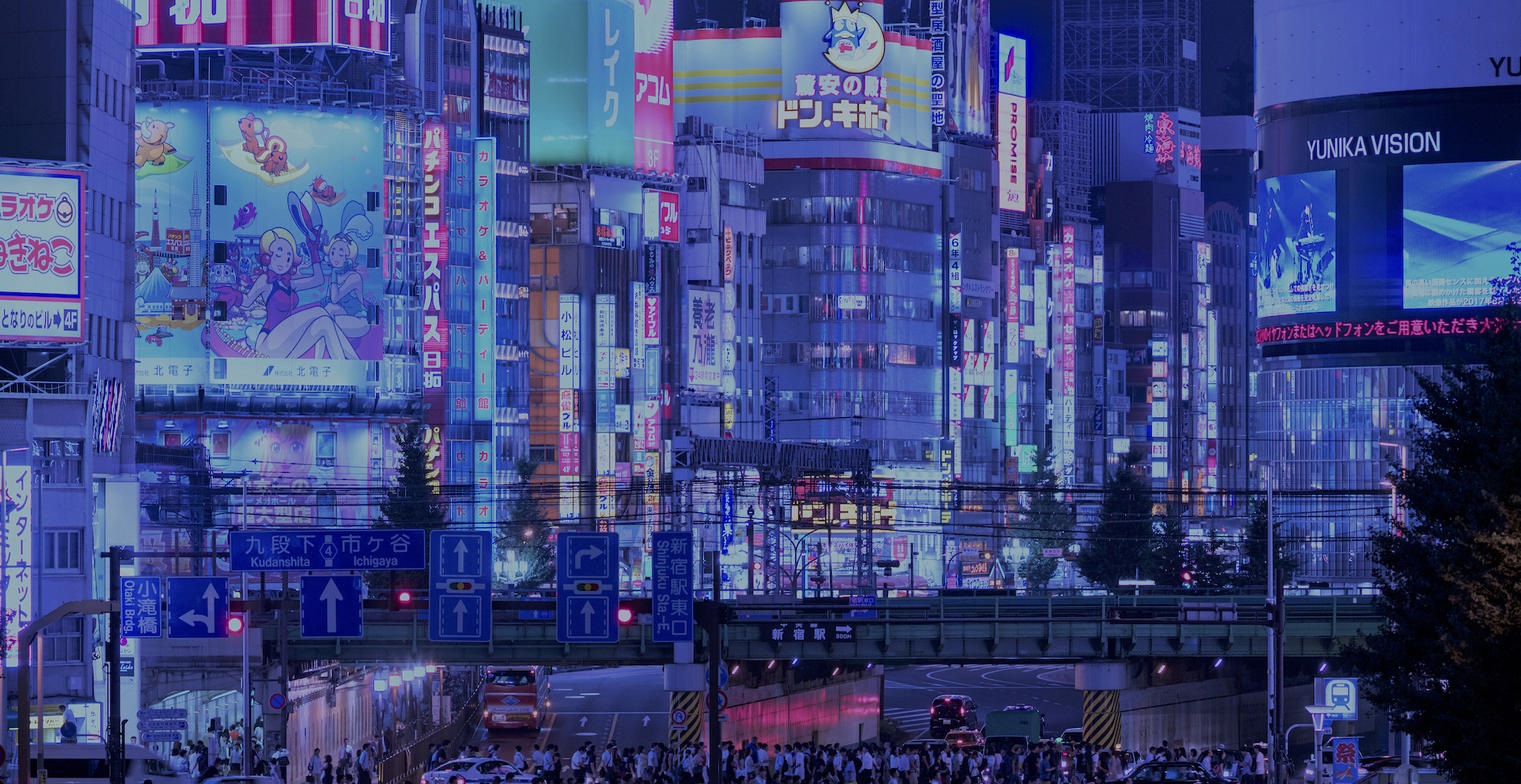
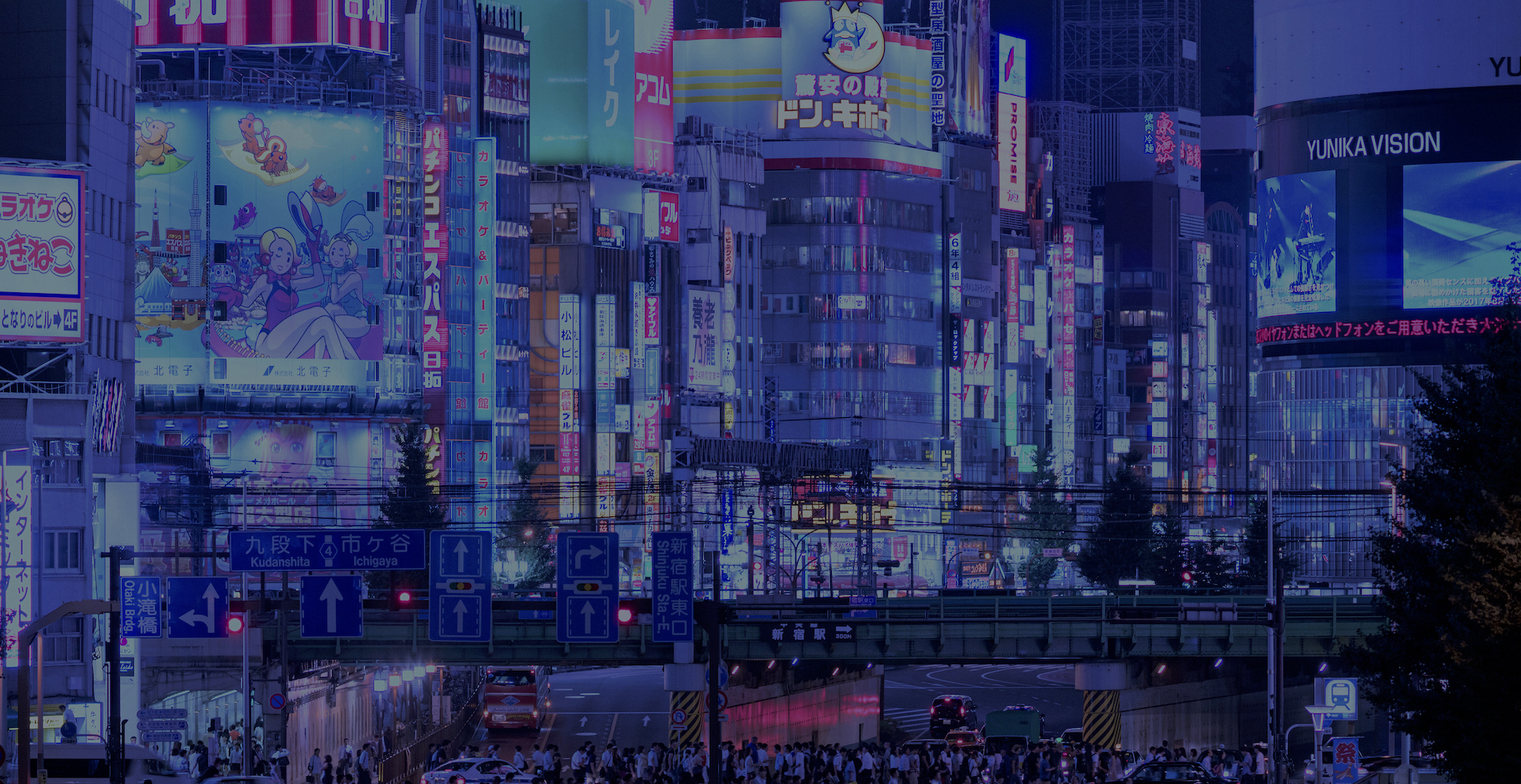
toppage

diff --git a/src/pages/index.tsx b/src/pages/index.tsx
@@ -1,4 +1,5 @@
 import AppBarComponent from "@/ components/appbar";
+import Visiontext from "@/ components/vision";
 import { NextPage } from "next";
 
 const Home: NextPage = () => {
@@ -7,29 +8,20 @@ const Home: NextPage = () => {
       style={{
         width: "100%",
         height: "100vh",
-        backgroundColor: "black",
+        backgroundImage: "url('/images/bg.jpg')", // 背景画像のパス
+        backgroundSize: "cover",
+        backgroundPosition: "center",
         display: "flex",
         flexDirection: "column",
         alignItems: "center",
+        justifyContent: "center",
         textAlign: "center",
         margin: 0,
+        position: "relative",
       }}
     >
-      <AppBarComponent/>
-
-      {/* 背景画像 */}
-      <img
-        src="/images/bg.jpg" // 画像のパスを適切に設定
-        alt="背景"
-        style={{
-          width: "100%",
-          height: "100%",
-          objectFit: "cover",
-          maxWidth: "100%",
-          display: "block",
-          margin: 0,
-        }}
-      />
+      <AppBarComponent />
+      <Visiontext />
     </div>
   );
 };

diff --git a/src/ components/vision.tsx b/src/ components/vision.tsx
@@ -1,0 +1,37 @@
+import * as React from 'react';
+import { Typewriter } from 'react-simple-typewriter';
+
+const Visiontext = () => {
+
+  return (
+    <div>
+      <h1
+        style={{ color:'#43d9d9', 
+                 margin: 'auto 0', 
+                 fontWeight: 'normal', 
+                 fontSize:'56px',
+                 fontFamily:"マキナス"
+                }}
+      >
+        リアルとデジタルの {' '}
+        <span style={{ color: '#D93BCE', fontWeight: 'bold' }}>
+          {/* Style will be inherited from the parent element */}
+          <Typewriter
+            loop
+            cursor
+            cursorStyle='_'
+            typeSpeed={80}
+            deleteSpeed={50}
+            delaySpeed={1000}
+            words={['境界線をなくす', '融合']}
+            onLoop={(loopCount: any) =>
+              console.log(`Just completed loop ${loopCount}`)
+            }
+          />
+        </span>
+      </h1>
+    </div>
+  );
+};
+
+export default Visiontext;

diff --git a/src/pages/_app.tsx b/src/pages/_app.tsx
@@ -1,4 +1,5 @@
 import '@/styles/globals.css'
+import 'public/fonts/fonts.css'
 import type { AppProps } from 'next/app'
 
 export default function App({ Component, pageProps }: AppProps) {
